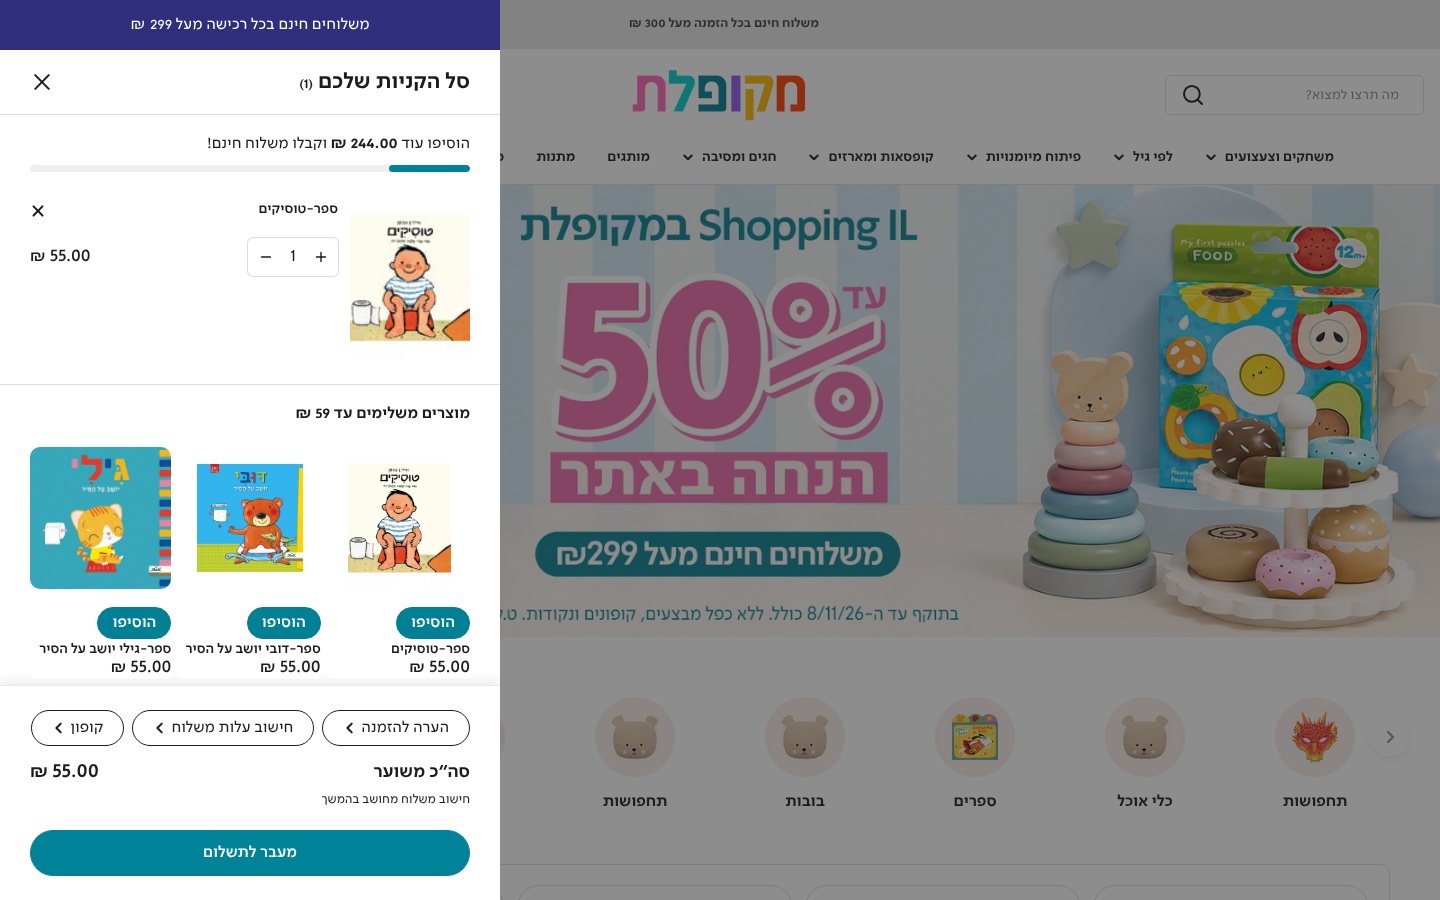
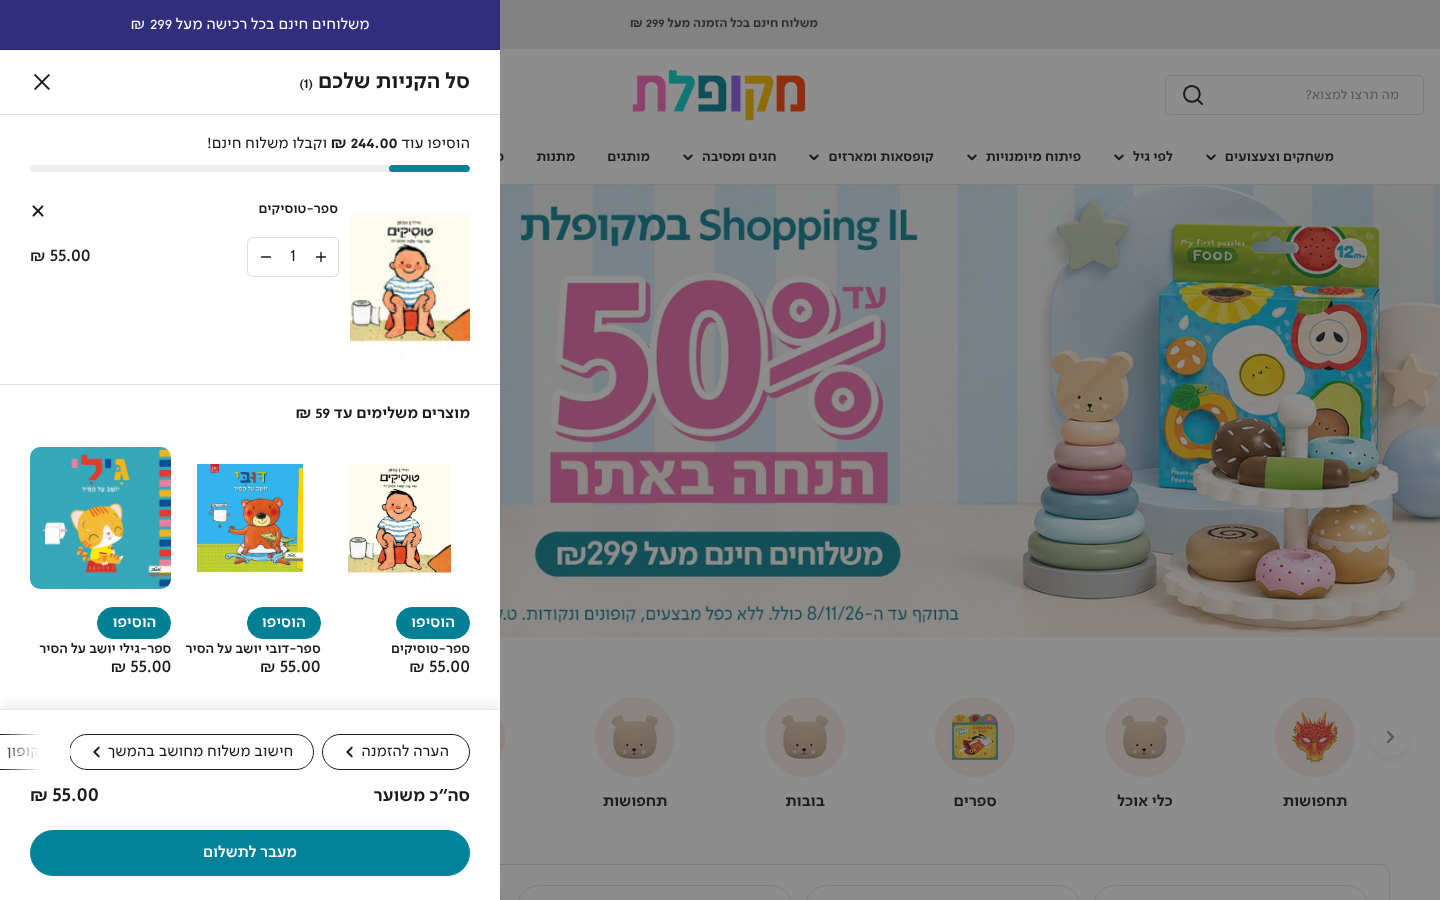
Cart drawer: drop the tax note, rename the shipping calculator button
Per merchant feedback: the note under the subtotal is removed in the drawer
(CSS only, the cart page keeps Hyper's strings) and the shipping-rates
calculator button now reads "חישוב משלוח מחושב בהמשך".

Claude-Session: https://claude.ai/code/session_01QfBjERy37Re1AYHdyrQKXr

Changed region(s): [[0.0, 0.7778, 0.3438, 0.9022], [0.4375, 0.0, 0.5625, 0.0311]]

diff --git a/assets/mk-custom.css b/assets/mk-custom.css
@@ -656,6 +656,8 @@ a.mk-instagram__link:hover .mk-instagram__title { text-decoration: underline; te
 
 /* 14. Cart drawer (merchant notes 2026-10-11): checkout only, neutral goal text, black add-on
    buttons, divider above the upsell row ------------------------------------------------------- */
+/* No tax/shipping note under the subtotal (merchant), only in the drawer */
+.cart-drawer .tax-note { display: none; }
 /* Only "מעבר לתשלום": Hyper has no setting for the view-cart button */
 .cart-drawer .drawer__footer-buttons > a.btn--secondary { display: none; }
 /* Free-shipping goal text in the page text colour instead of the accent */

diff --git a/docs/progress.md b/docs/progress.md
@@ -402,8 +402,10 @@ continues in a NEW session. Starting point for that session:
 - Cart drawer notes (PDF, 2026-10-11): all done with Hyper settings, locale strings and CSS
   block 14 — drawer message "משלוחים חינם בכל רכישה מעל 299 ₪" (cart_message), free-shipping
   threshold 299 (theme setting; the announcement bar still says 300, merchant's copy), footer
-  note → "חישוב משלוח מחושב בהמשך" (4 locale keys, no link), view-cart button hidden (no Hyper
-  setting), goal text and the note/shipping/coupon buttons in black, upsell row = Hyper's cart
+  tax/shipping note removed from the drawer (CSS `.cart-drawer .tax-note`; the 4 locale keys
+  keep Hyper's Hebrew for the cart page), shipping-calculator button renamed
+  "חישוב משלוח מחושב בהמשך" (`general.cart.shipping_calculator.title`), view-cart button hidden
+  (no Hyper setting), goal text and the note/shipping/coupon buttons in black, upsell row = Hyper's cart
   recommendations with a hand-picked list of 8 best sellers ≤59 ₪ (no collection source in Hyper)
   under "מוצרים משלימים עד 59 ₪" with a divider above; drawer upsell cards get the same icon-only
   add-to-cart. Verified with a curl-prefilled cart at 390/1440 (`docs/screenshots/cart-drawer/`).
